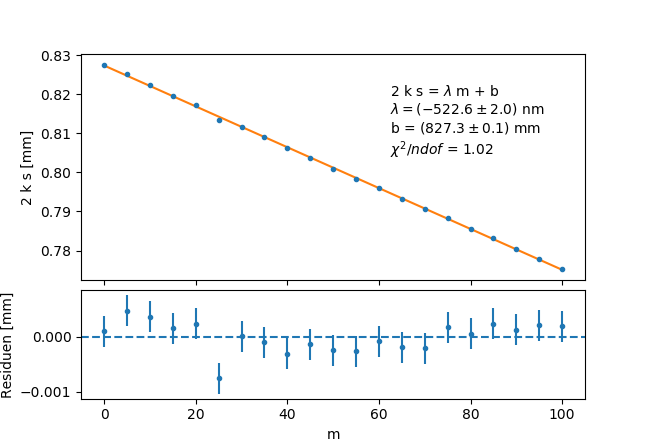
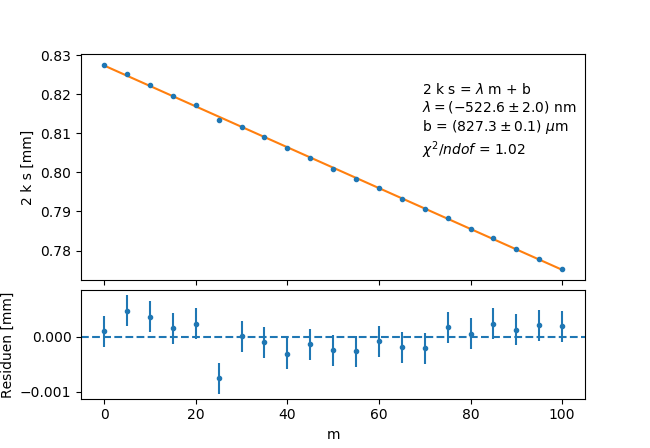
Feher

Changed region(s): [[0.5846, 0.1875, 0.8923, 0.3438]]

diff --git a/grundpraktikum2/Optik 2/Python/kalibration_seb.py b/grundpraktikum2/Optik 2/Python/kalibration_seb.py
@@ -14,9 +14,9 @@ laser = 632.8e-6
 sig_laser = 0.1e-6
 
 
-m, s = np.genfromtxt("Kalibration_B.txt", skip_header=1, delimiter=",", unpack=True)
+m, s = np.genfromtxt("Kalibration_A.txt", skip_header=1, delimiter=",", unpack=True)
 #s*=1e-3
-sig_s = 0.015/np.sqrt(12)
+sig_s = 0.01/np.sqrt(12)
 
 
 # 2d = m lambda
@@ -54,7 +54,7 @@ plt.xlabel("m")
 ############################
 
 
-m, s, s2 = np.genfromtxt("Wellenlaenge_B.txt", skip_header=1, delimiter=",", unpack=True)
+m, s = np.genfromtxt("Wellen_A.txt", skip_header=1, delimiter=",", unpack=True)
 #s*=1e-3
 
 m = m[0:len(s)]
@@ -72,7 +72,7 @@ plt.figure(2, [6.5,4.5])
 plt.subplot2grid((6,1),(0,0), rowspan=4)
 plt.errorbar(m, y, yerr=ey, fmt=".")
 plt.plot(m, a*m+b)
-plt.figtext(0.2, 0.65, "2 k s = $\lambda$ m + b\n$\lambda = ({0:3.1f} \pm {1:3.1f})$ nm\nb = $({2:3.1f} \pm {3:3.1f})$ mm\n$\chi^2/ndof$ = {4:3.2f}".format(a*1e6,ea*1e6, b*1e3, eb*1e3, chi2/(len(m)-2)))
+plt.figtext(0.65, 0.65, "2 k s = $\lambda$ m + b\n$\lambda = ({0:3.1f} \pm {1:3.1f})$ nm\nb = $({2:3.1f} \pm {3:3.1f})$ $\mu$m\n$\chi^2/ndof$ = {4:3.2f}".format(a*1e6,ea*1e6, b*1e3, eb*1e3, chi2/(len(m)-2)))
 plt.ylabel("2 k s [mm]")
 plt.xlabel("m")
 
